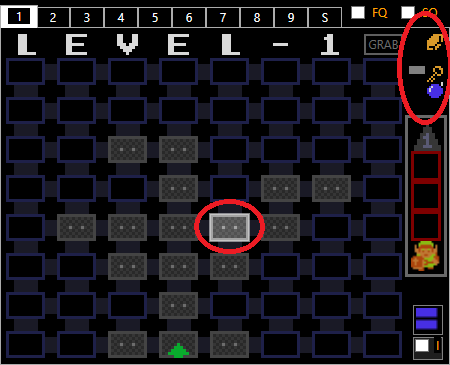
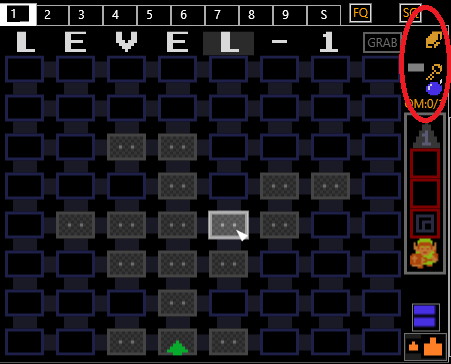
updating docs for dungeon room UI (and column highlight)

Changed region(s): [[0.0, 0.0, 1.0, 1.0]]

diff --git a/doc/use.md b/doc/use.md
@@ -418,7 +418,7 @@ As a result, in the scenario described before, you could mark up the room thusly
 
 How much of this detail you choose to track is up to you, and the interface makes it easy to ignore details you don't care about.
 
-### Practical use
+### <a id="main-drpu"></a> Practical use
 
 If all you care about it 'what rooms have I been in, and what rooms have I completed', then all you need is left-click:
  - left-click an unmarked room to mark it as the default-RoomType, as a completed room - completed rooms have a dark outline
@@ -430,22 +430,15 @@ If you want to change a RoomType (to mark a transport staircase, hungry Goriya, 
  - a grid of 34 possible types of rooms appear
  - choose the one you want with your mouse, and left-click it
 
-TODO
-
 ![Dungeon room chooser screenshot](screenshots/dungeon-room-chooser.png)
 
-TODO
+If you want to mark a MonsterDetail for a room, you can scroll-up (or shift-left-click) to open the MonsterDetail popup:
 
-If you want to change the MonsterDetail or FloorDropDetail for a room, then right-click the room to bring up the RoomType popup, choose the room type, 
-but this time right-click the RoomType selection to bring up the MonsterDetail/FloorDropDetail interface.  Click on details in the grids to apply them
-to the current room's "preview" tile.  Once you are done, click the preview tile to save your edits to the dungeon map; a left-click marks the room completed,
-and a right-click marks it uncompleted.  (After clicking a detail, its grid briefly goes half-transparent, as visual feedback that your detail has been applied
-to the "preview" tile.  The half-transparent grid is another 'save' click-target, like the preview tile, with the implication that you can, for example, 
-double-right-click the Gleeok MonsterDetail as a way to say 'add a Gleeok to this room tile and immediately save this as an uncompleted room and exit the popup.)
+![Dungeon room monster detail screenshot](screenshots/dungeon-room-monster-detail.png)
 
-TODO
+Or if you want to mark a FloorDropDetail for a room, you can scroll-down (or shift-right-click) to open the FloorDropDetail popup:
 
-![Dungeon room detail screenshot](screenshots/dungeon-room-detail.png)
+![Dungeon room monster detail screenshot](screenshots/dungeon-room-floor-drop-detail.png)
 
 If you have marked a FloorDropDetail, you can toggle whether you have 'gotten' the floor drop by middle-clicking the room on the map.  Un-gotten floor drops
 appear as a bright icon, and gotten floor drops appear darkened.
@@ -489,6 +482,8 @@ upper right icon area:
 ![z-tracker dungeon map screenshot](screenshots/rupee-key-bomb-z-tracker.png)
 
 In that screenshot, the mouse is over a room in the 5th row, so the highlight appears next to the top half of the 'key' icon.
+
+(The corresponding column letter also gets a subtle highlight when a dungeon room is moused over--see the second 'L' of LEVEL-1 in the screenshot.)
 
 #### <a id="main-dungeon-old-man-count"></a>Old Man Count
 

diff --git a/doc/whats-new.md b/doc/whats-new.md
@@ -42,9 +42,9 @@ always available in the dungeon room selection popup menu.
 
 ![Dungeon room types](screenshots/dungeon-room-types.png)
 
-### Simpler Dungeon Room UI for Monster Detail and Floor Drop Detail
+### Simpler Dungeon Room UI for choosing rooms, Monster Detail, and Floor Drop Detail
 
-TODO
+For details, see the [main documentation](use.md#main-drpu) on this topic.
 
 ### Special NPC room highlights
 
